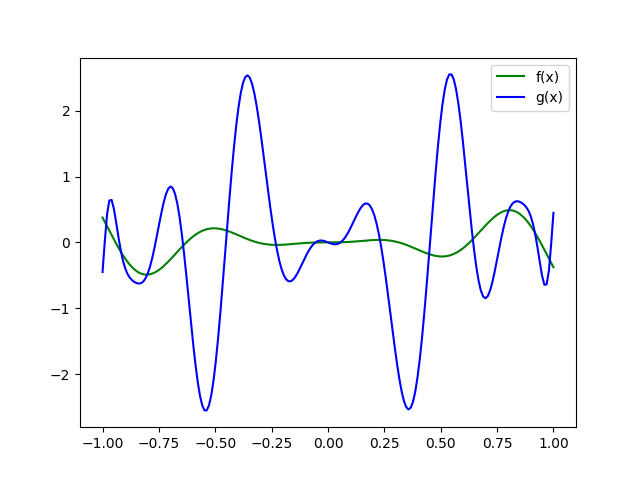
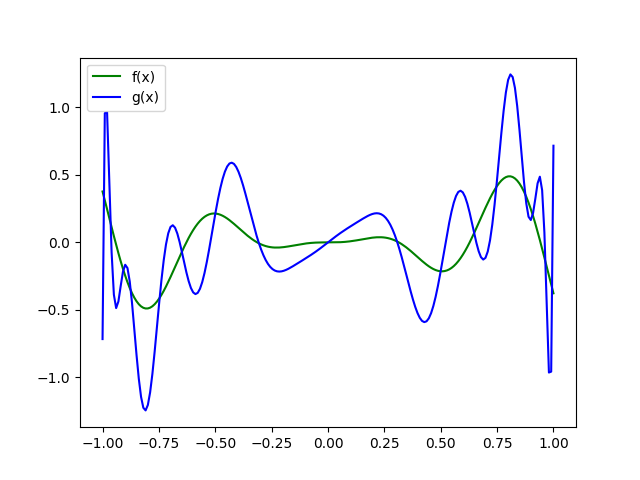
update

diff --git a/Polinômios de Chebyshev/Cheby.py b/Polinômios de Chebyshev/Cheby.py
@@ -56,6 +56,11 @@ def trapeze_sum(f, a, b, n):
     area = base*sum
     return area
 
+"""
+Aviso: os polinômios de chebyshev são dois a dois ortogonais! Portanto deve-se usar a função 'aprox_coeffs_ort'(é mais 
+eficiente) porém lembre-se de usar o a função w(x) no produto escalar.
+"""
+
 def aprox_coeffs(func_list, f, a, b, n):
     A = []
     B = []
@@ -80,6 +85,14 @@ def aprox_coeffs(func_list, f, a, b, n):
         A.append(row)
     return np.linalg.solve(A, B)
 
+def aprox_coeffs_ort(func_list, f, a, b, n):
+    w = lambda x: (1/sqrt(1-x**2))
+    coeffs = []
+    for fi in func_list:
+        ck = trapeze_sum(lambda x: f(x)*fi(x), a, b, n)/trapeze_sum(lambda x: fi(x)*fi(x), a, b, n)
+        coeffs.append(ck)
+    return coeffs
+
 def build_aprox_func(func_list, coeffs):
     def g(x):
         return sum(ck*fk(x) for ck, fk in zip(coeffs, func_list))
@@ -95,11 +108,22 @@ ou seja, esse polinômio minimiza a seguinte função erro:
 """
 
 def changeToChebyInterval(f, a, b):
+    """
+    A presente função, 'changeToChebyInterval', altera o intervalo de uma função de [a, b] para [-1, 1]; note que
+    essa mudança de variável é diferente da mudança de variável para quadratura gaussiana (na qual há uma mudança
+    de variável de dentro de uma integral).
+    """
     def F(u):
         return f(((b-a)/2) * u + (a+b)/2)
     return F
 
+
 def changeFromChebyInterval(g, a, b):
+    """
+    A presente função, 'changeFromChebyInterval', altera o intervalo de uma função de [-1, 1] para [a, b]; note que
+    essa mudança de variável é diferente da mudança de variável para quadratura gaussiana (na qual há uma mudança
+    de variável de dentro de uma integral).
+    """
     def G(u):
         return g((2/(b-a)) * u - (a+b)/(a-b))
     return G
@@ -115,6 +139,7 @@ def getChebyPoly(n):
     T = [1, x]
     for _ in range(1, n):
         t_n = 2*T[1]*x - T[0]
+        t_n = simplify(t_n)
         T = [T[1], t_n]
     return t_n
 
@@ -132,6 +157,18 @@ def getChebyPolyList(n):
         T.append(t_n)
     return T
 
+
+def getFromSymbolToFuncList(expr_list):
+    """
+    A presente função, 'getFromSymbolToFuncList' converte uma lista de expressões com simbolos para uma lista de funções,
+    porém para a função 'getChebyPolyList' pode-se realizar tal conversão para um lista T_func_list dentro do loop (o que é 
+    mais eficiente visto que é um loop a menos a ser percorrido)
+    """
+    func_list = []
+    for expr in expr_list:
+        func_list.append(symbolToFunc(expr))
+    return func_list
+
 def chebyRoots(n):
     """
     Retorna as n raízes do e-nésimo polinômio de chebyshev.
@@ -142,10 +179,17 @@ def chebyRoots(n):
         roots.append(x_k)
     return roots
 
+"""
+Métodos auxiliares:
+"""
+
 def stringToFunc(string):
     def f(x):
         return eval(string)
     return f
+
+def symbolToFunc(expr):
+    return stringToFunc(str(expr))
 
 
 if __name__ == '__main__':
@@ -158,6 +202,9 @@ if __name__ == '__main__':
     a = -1
     b = 1
 
+    """
+    Para realizar um interpoção de grau n precisamos de n+1 pontos:
+    """
     n = 4
     X = chebyRoots(n+1)
     Y = [f(xi) for xi in X]

diff --git a/Trabalho 03/legendre04.py b/Trabalho 03/legendre04.py
@@ -4,7 +4,7 @@ from sympy import symbols, simplify
 from math import *
 
 """
-Métodos de integração e método do de aproximação de Funções:
+Métodos de integração:
 """
 
 def trapeze_sum(f, a, b, n):
@@ -53,7 +53,7 @@ def quadrature(f, a, b, cord_quadrature, coeffs_quadrature):
     g = changeToQuadratureInterval(f, a, b)
     sum = 0
     for xi, ci in zip(cord_quadrature, coeffs_quadrature):
-        sum += ci*g(xi)
+        sum += float(ci*g(xi))
     return sum
 
 def changeToQuadratureInterval(f, a, b):
@@ -65,6 +65,10 @@ def changeToQuadratureInterval(f, a, b):
     def g(u):
         return f((b+a)/2 + (b-a) * (u/2)) * (b-a)/2
     return g
+
+"""
+Métodos do de aproximação de Funções:
+"""
 
 def aprox_coeffs(func_list, f, a, b, n):
     A = []
@@ -91,7 +95,6 @@ def aprox_coeffs(func_list, f, a, b, n):
 
 def aprox_coeffs_ort(func_list, f, a, b, cord_quadrature, coeffs_quadrature):
     coeffs = []
-    print(coeffs_quadrature)
     for fi in func_list:
         ci = quadrature(lambda x: f(x)*fi(x), a, b, cord_quadrature, coeffs_quadrature)/quadrature(lambda x: fi(x)*fi(x), a, b, cord_quadrature, coeffs_quadrature)
         coeffs.append(ci)
@@ -102,7 +105,10 @@ def build_aprox_func(func_list, coeffs):
         return sum(ck*fk(x) for ck, fk in zip(coeffs, func_list))
     return g
 
-# Transforma string em função:
+"""
+Funções auxiliares:
+"""
+
 def stringToFunc(string):
     def f(x):
         return eval(string)
@@ -110,7 +116,6 @@ def stringToFunc(string):
 
 def symbolToFunc(expr):
     return stringToFunc(str(expr))
-    
 
 """
 Funções recursivas para geração dos polinômios de Legendre (lembre-se que estes polinômios são dois a dois ortogonais,
@@ -141,7 +146,6 @@ def optimized_legendre(n):
         p_i = ((2 * float(i) - 1) * x * P[1] - (float(i) - 1) * P[0]) / float(i)
         p_i = simplify(p_i)
         P.pop(0)
-        # print(p_i, "\n\n")
         P.append(p_i)
         P_func_list.append(symbolToFunc(p_i))
     return P_func_list
@@ -181,7 +185,7 @@ if __name__ == '__main__':
     for ck in coeffs:
         print(f"{ck},")
 
-    values = [-0.837, 0.254, 0.915]
+    values = [-0.688, 0.11, 0.636]
     for i, xi in enumerate(values):
         print(f"g(x_{i+1}) = {g(xi)},")
 
@@ -196,5 +200,5 @@ if __name__ == '__main__':
     plt.plot(t, ft, color = "green", label = "f(x)")
     plt.plot(t, gt, color = "blue", label = "g(x)")
     plt.legend(loc="upper left")
-    plt.savefig("legendre04.png")
+    # plt.savefig("legendre04.png")
     plt.close()

diff --git a/Trabalho 03/cheby04.py b/Trabalho 03/cheby04.py
@@ -132,6 +132,15 @@ def aprox_coeffs(func_list, f, a, b, cord_quadrature, coeffs_quadrature):
         A.append(row)
     return np.linalg.solve(A, B)
 
+def aprox_coeffs_ort(func_list, f, a, b, cord_quadrature, coeffs_quadrature):
+    # w = lambda x: (1/sqrt(1-x**2))
+    w = lambda x: 1
+    coeffs = []
+    for fi in func_list:
+        ck = quadrature(lambda x: w(x)*f(x)*fi(x), a, b, cord_quadrature, coeffs_quadrature)/quadrature(lambda x: w(x)*fi(x)*fi(x), a, b, cord_quadrature, coeffs_quadrature)
+        coeffs.append(ck)
+    return coeffs
+
 def build_aprox_func(func_list, coeffs):
     def g(x):
         return sum(ck*fk(x) for ck, fk in zip(coeffs, func_list))
@@ -222,12 +231,13 @@ if __name__ == '__main__':
     coeffs_quadrature= locals()[lists_names[1]]
     print(cord_quadrature, coeffs_quadrature)
 
-    # f_cheby = changeToChebyInterval(f, a, b)
+    f_cheby = changeToChebyInterval(f, a, b)
     f_cheby = f
     cheby_polynomials = getChebyPolyList(last_poly_num+1)
-    coeffs = aprox_coeffs(cheby_polynomials, f_cheby, a, b, cord_quadrature, coeffs_quadrature)
+    
+    coeffs = aprox_coeffs_ort(cheby_polynomials, f_cheby, a, b, cord_quadrature, coeffs_quadrature)
     p = build_aprox_func(cheby_polynomials, coeffs)
-    # g = changeFromChebyInterval(p, a, b)
+    g = changeFromChebyInterval(p, a, b)
     g = p
 
     """
@@ -236,7 +246,7 @@ if __name__ == '__main__':
     for ci in coeffs:
         print(f"{ci},")
 
-    values = [-0.581, -0.152, 0.734]
+    values = [-0.467, -0.112, 0.471]
     for i, x_i in enumerate(values):
         print(f"g(x_{i}) = {g(x_i)},")
 
@@ -255,5 +265,5 @@ if __name__ == '__main__':
     plt.plot(t, ft, color = "green", label = "f(x)")
     plt.plot(t, gt, color = "blue", label = "g(x)")
     plt.legend()
-    # plt.savefig("cheby04.png")
+    plt.savefig("cheby04.png")
     plt.close()

diff --git a/Trabalho 03/legendre04 (bidin version).py b/Trabalho 03/legendre04 (bidin version).py
@@ -334,8 +334,8 @@ if __name__ == '__main__':
     # plt.savefig("legendre04 (bidin version).png")
     plt.close()
 
-    """
-    0.0,
+"""
+0.0,
 0.14156254791776582,
 0.0,
 0.10288296495171939,
@@ -350,40 +350,40 @@ if __name__ == '__main__':
 0.0,
 -0.2411652161780042,
 0.0,
--0.30140344294173965,
+-0.30140344293770555,
 0.0,
-0.70297666238467,
+0.7029766625865429,
 0.0,
-0.849926157524449,
+0.8499261579619921,
 0.0,
--0.21667124769317017,
+-0.21667124745618305,
 0.0,
--0.48927015696151593,
+-0.4892701603891302,
 0.0,
--0.8511390038953847,
+-0.8511389031029812,
 0.0,
-0.5711256445373671,
+0.5711256425464692,
 0.0,
-1.1470413225568898,
+1.1470464340861033,
 0.0,
--0.1988073656016326,
+-0.19882248755411439,
 0.0,
--1.2592385333116065,
+-1.2590686508015567,
 0.0,
--0.24524740446435508,
+-0.24529139871878952,
 0.0,
-0.18153658880257248,
+0.18292374152900873,
 0.0,
--0.29251615184313845,
+-0.29058240805002566,
 0.0,
--1.4192498486305962,
+-1.4594856790011916,
 0.0,
--0.083875782724729,
+-0.16547865098697664,
 0.0,
-1.5340231592923046,
+-0.021680345682759453,
 0.0,
--0.09926269119751627,
+-0.005954058923444447,
 0.0,
-0.2862354924069982,
+0.001904168675359827,
 0.0,
-    """
+"""

diff --git a/Trabalho 03/cheby01.py b/Trabalho 03/cheby01.py
@@ -80,6 +80,15 @@ def aprox_coeffs(func_list, f, a, b, n):
         A.append(row)
     return np.linalg.solve(A, B)
 
+def aprox_coeffs_ort(func_list, f, a, b, n):
+    w = lambda x: (1/sqrt(1-x**2))
+    # w = lambda x: 1
+    coeffs = []
+    for fi in func_list:
+        ck = trapeze_sum(lambda x: w(x)*f(x)*fi(x), a, b, n)/trapeze_sum(lambda x: w(x)*fi(x)*fi(x), a, b, n)
+        coeffs.append(ck)
+    return coeffs
+
 def build_aprox_func(func_list, coeffs):
     def g(x):
         return sum(ck*fk(x) for ck, fk in zip(coeffs, func_list))
@@ -159,14 +168,14 @@ if __name__ == '__main__':
     def f(x):
         return x * sin(-6 * x**2)
 
-    a = -1
-    b = 1
+    a = -2
+    b = 2
     n = 8192
     num_of_polys = 21
 
     f_cheby = changeToChebyInterval(f, a, b)
     cheby_polynomials = getChebyPolyList(num_of_polys+1)
-    coeffs = aprox_coeffs(cheby_polynomials, f_cheby, a, b, n)
+    coeffs = aprox_coeffs_ort(cheby_polynomials, f_cheby, -1+0.01, 1-0.01, n)
     p = build_aprox_func(cheby_polynomials, coeffs)
     g = changeFromChebyInterval(p, a, b)
 

diff --git a/Trabalho 03/ortogonalização01 copy.py b/Trabalho 03/ortogonalização01 copy.py
@@ -82,7 +82,7 @@ def proj_k(f, g, a, b, n) -> float:
 
 if __name__ == '__main__':
 
-    a, b = [-1.43902, 1.33976]
+    a, b = [-1.29505, 1.01135]
     n = 256
     x = symbols('x')
     func_list = [1,  x, x**2, x**3]
@@ -90,8 +90,8 @@ if __name__ == '__main__':
     result_list = ortog_funcs(func_list, a, b, n)
     
     for row in result_list:
-        print(row)
-        # for a_ij in row:
-        #     print(f"{a_ij},") 
+        # print(row)
+        for a_ij in row:
+            print(f"{a_ij},") 
 
     pass
